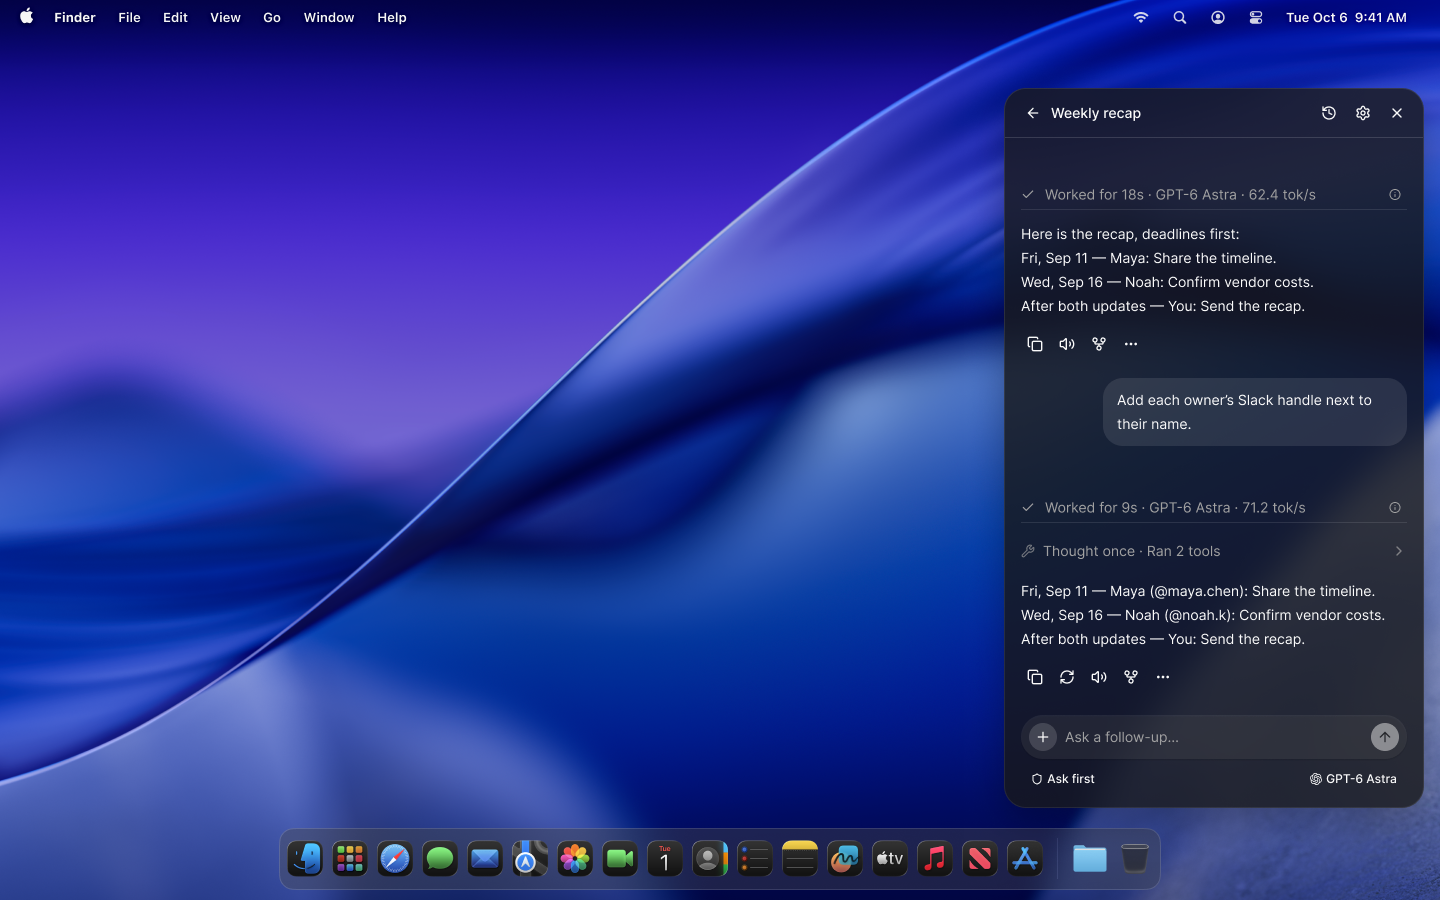
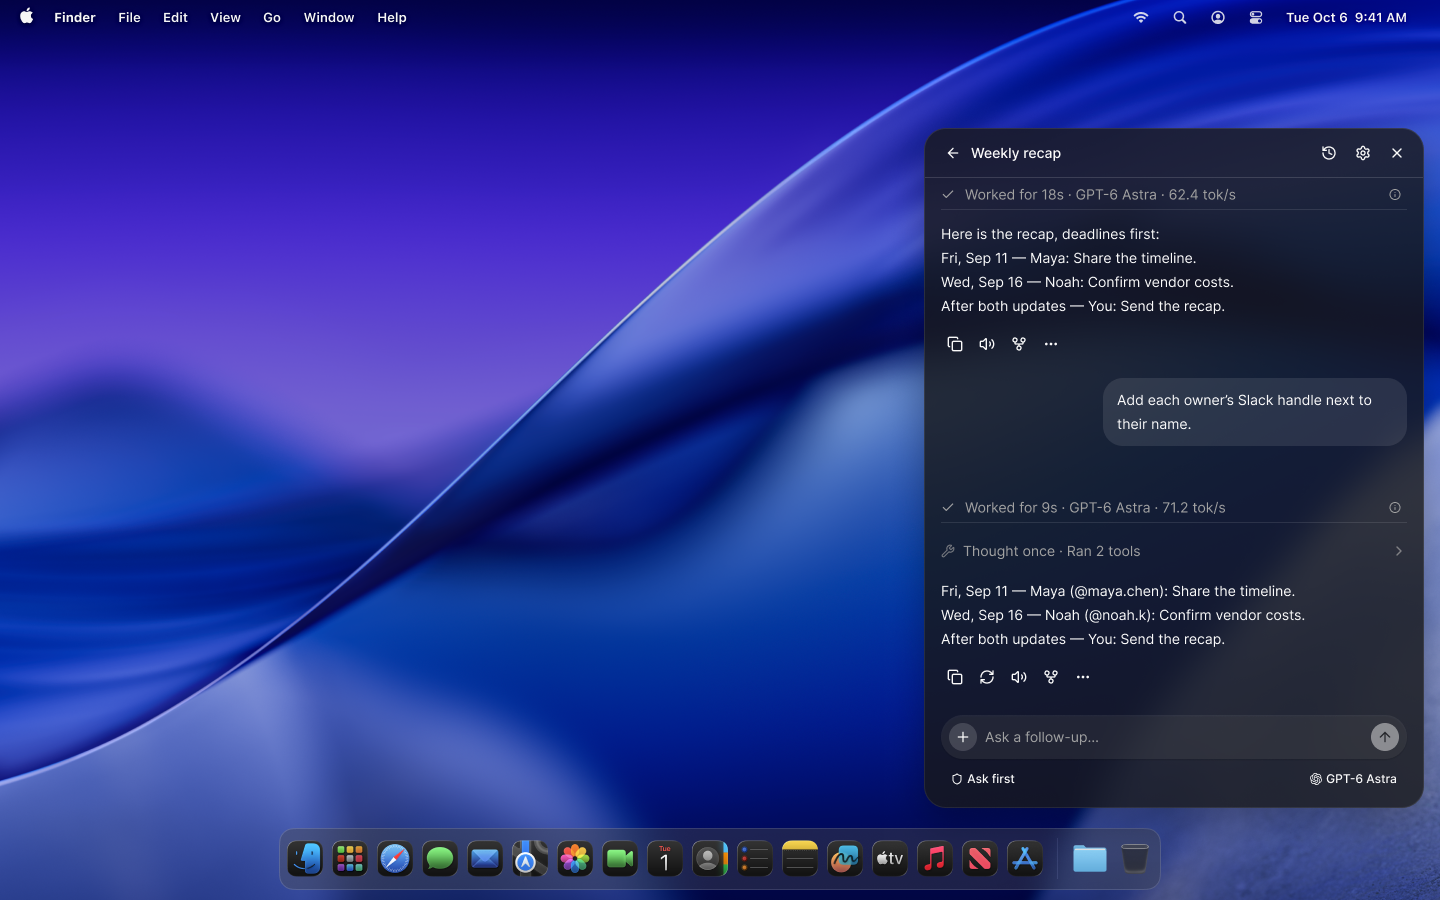
fix(desktop): use a 500 by 680 default panel (#25)

Changed region(s): [[0.625, 0.0933, 1.0, 0.9022]]

diff --git a/apps/macos/Tests/AICoreTests/WindowGeometryTests.swift b/apps/macos/Tests/AICoreTests/WindowGeometryTests.swift
@@ -17,7 +17,7 @@ struct WindowGeometryTests {
     let workArea = Self.flip(0, 25, 1440, 815, primaryHeight: 900)
     #expect(
       PanelGeometry.dockedFrame(in: workArea)
-        == Self.flip(864, 104, 560, 720, primaryHeight: 900))
+        == Self.flip(924, 144, 500, 680, primaryHeight: 900))
   }
 
   @Test("Anchors to a secondary display with a negative origin")
@@ -25,7 +25,7 @@ struct WindowGeometryTests {
     let workArea = Self.flip(-1920, -100, 1920, 1040, primaryHeight: 1080)
     #expect(
       PanelGeometry.dockedFrame(in: workArea)
-        == Self.flip(-576, 204, 560, 720, primaryHeight: 1080))
+        == Self.flip(-516, 244, 500, 680, primaryHeight: 1080))
   }
 
   @Test("Fits a small display without leaving the work area")

diff --git a/apps/macos/Sources/AICore/Windows/WindowGeometry.swift b/apps/macos/Sources/AICore/Windows/WindowGeometry.swift
@@ -36,7 +36,7 @@ public struct WindowSize: Equatable, Sendable {
 
 /// Panel placement in AppKit's y-up space: "bottom" is the work area's `y`, not its maximum.
 public enum PanelGeometry {
-  public static let defaultSize = WindowSize(width: 560, height: 720)
+  public static let defaultSize = WindowSize(width: 500, height: 680)
   public static let minimumSize = WindowSize(width: 320, height: 400)
   public static let margin = 16.0
 
